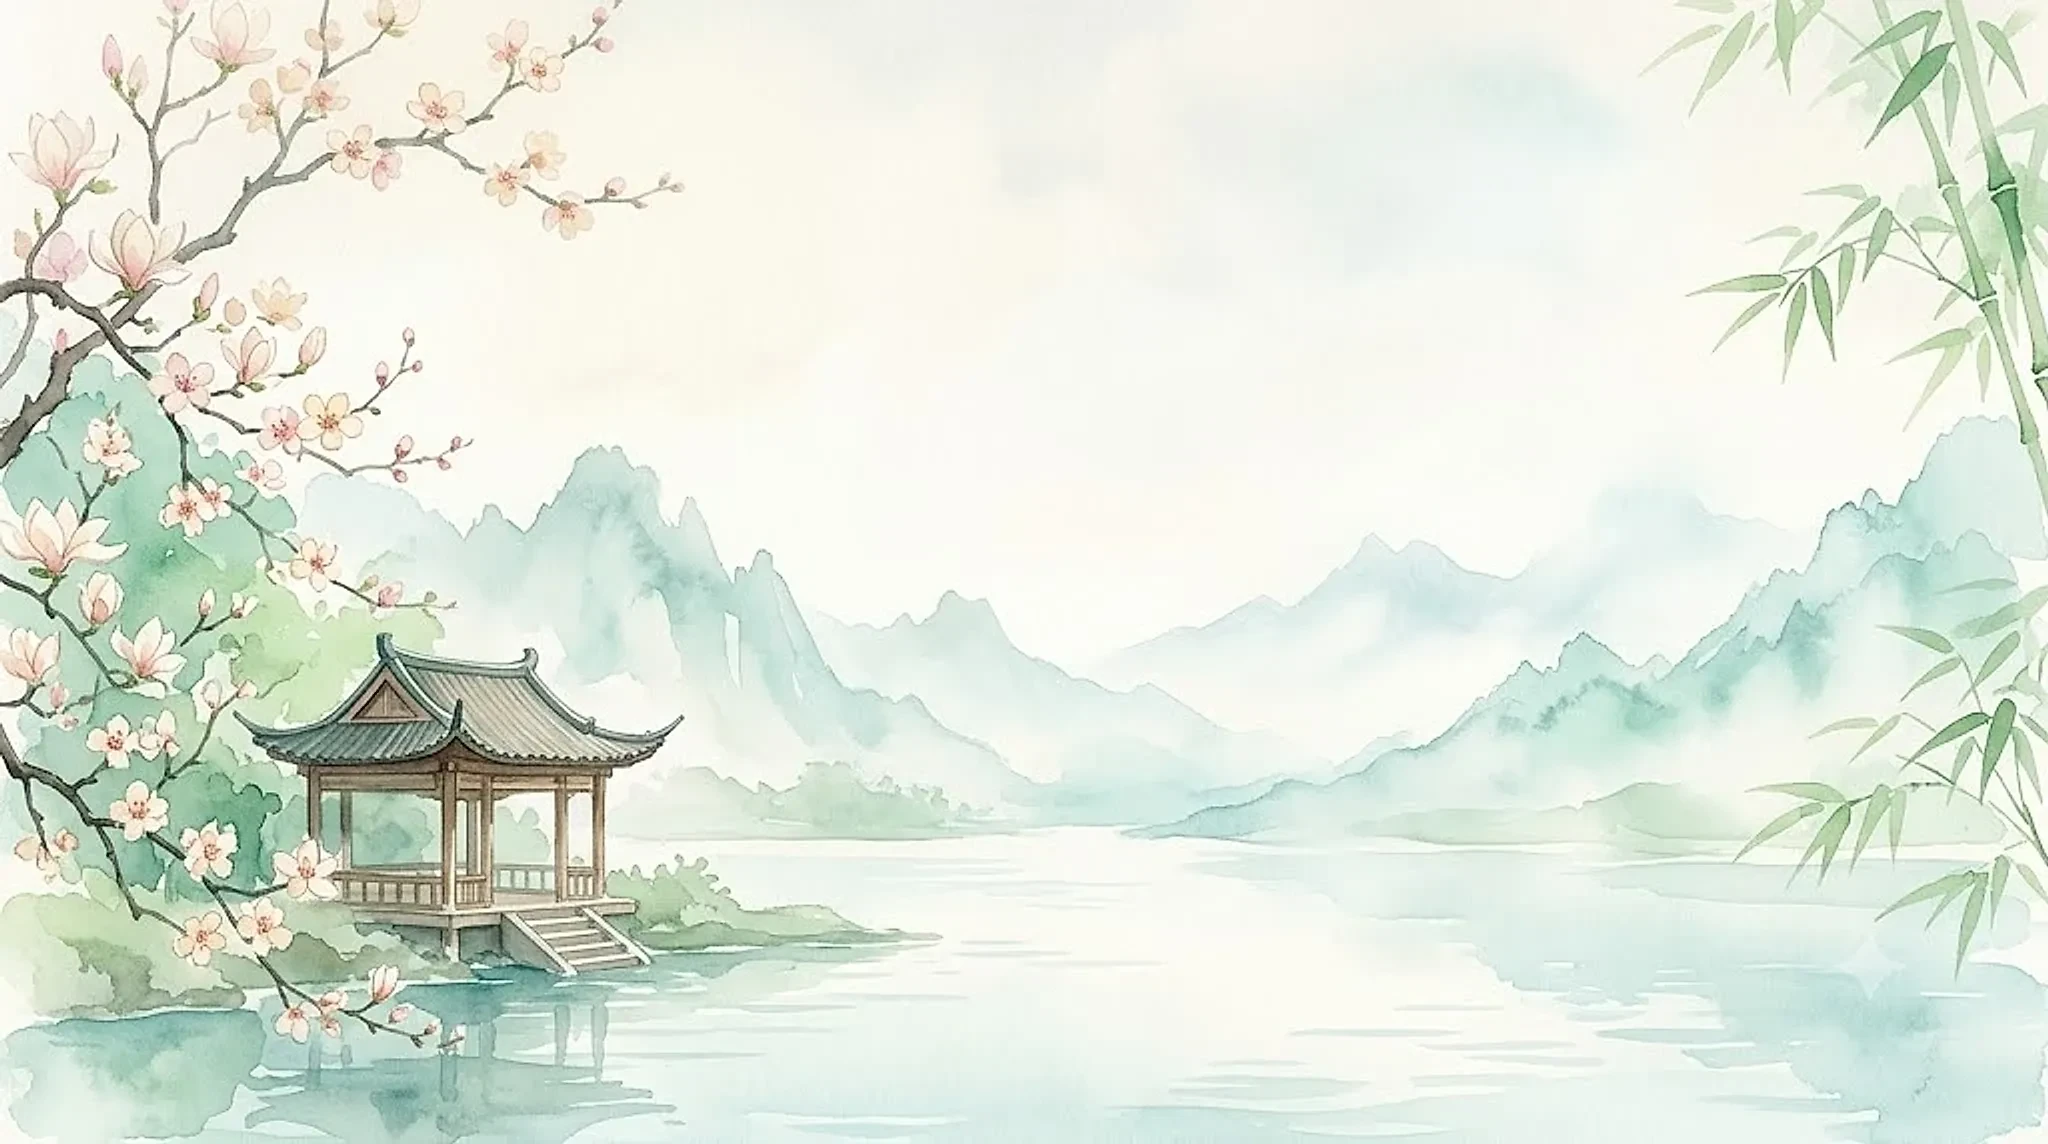
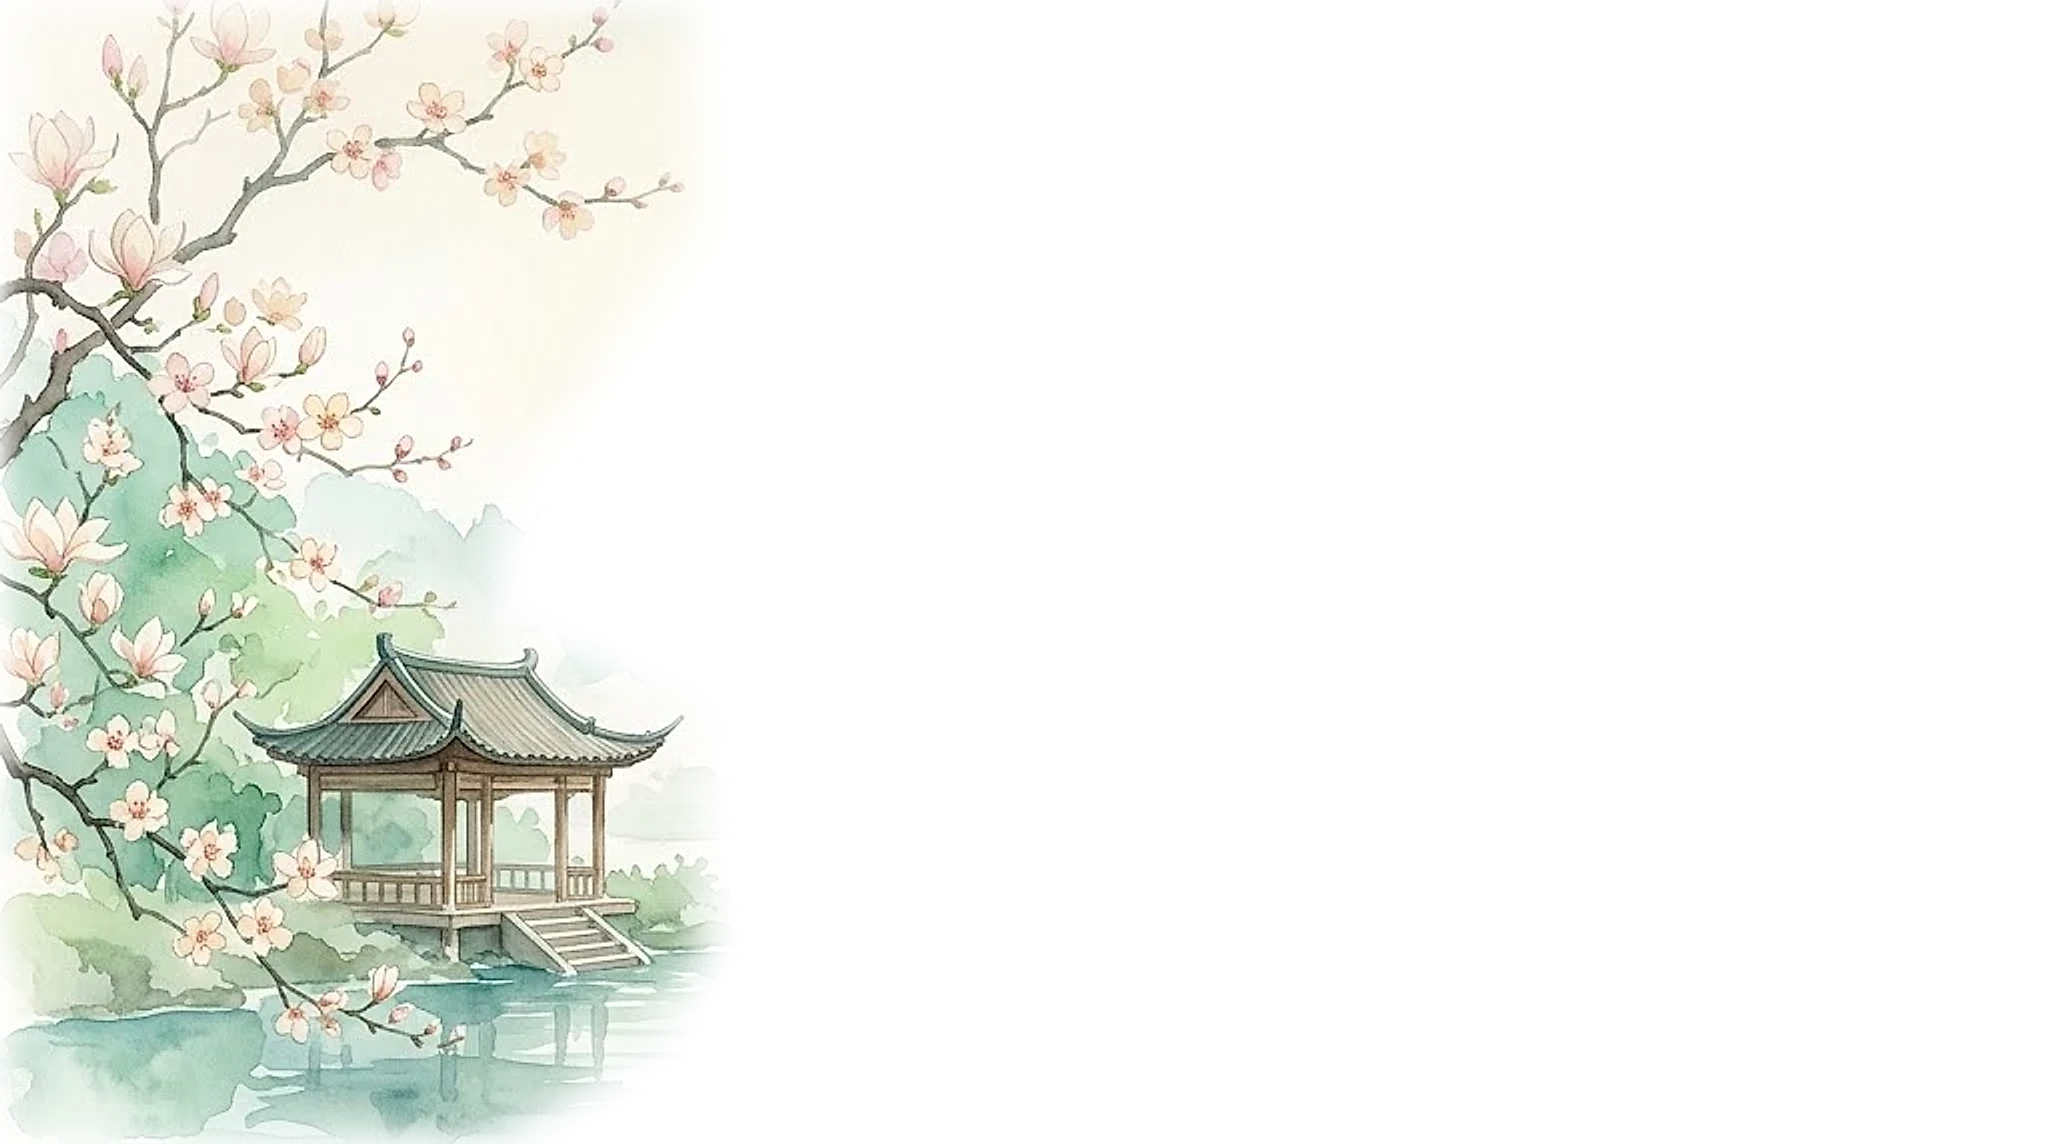
Sharpen the home background and fix its see-through layers
The tree and bamboo layers had lost their alpha, so three opaque copies of
the painting were stacked. Serve the painting as .webp because Hostinger's
CDN shrinks .jpg to 1600px, and thin the cream veil and mist over it.

diff --git a/public/css/style.css b/public/css/style.css
@@ -157,11 +157,12 @@ body {
   will-change: transform;
   transition: transform 0.9s cubic-bezier(0.22, 1, 0.36, 1);
 }
-.scene-far  { background-image: url('/images/bg/son-thuy.jpg'); }
+/* Anh nen de dang .webp: CDN cua Hostinger thu nho .jpg xuong 1600px lam tranh mo, .webp thi giu nguyen. */
+.scene-far  { background-image: url('/images/bg/son-thuy.webp'); }
 .scene-tree { background-image: url('/images/bg/lop-cay.webp'); }
 .scene-bamboo { background-image: url('/images/bg/lop-truc.webp'); }
 @media (max-width: 720px) {
-  .scene-far { background-image: url('/images/bg/son-thuy-sm.jpg'); }
+  .scene-far { background-image: url('/images/bg/son-thuy-sm.webp'); }
   /* Man doc: canh lop theo ben trai de cay hoa va dinh van nam trong khung. */
   .scene-layer { background-position: 18% bottom; }
 }
